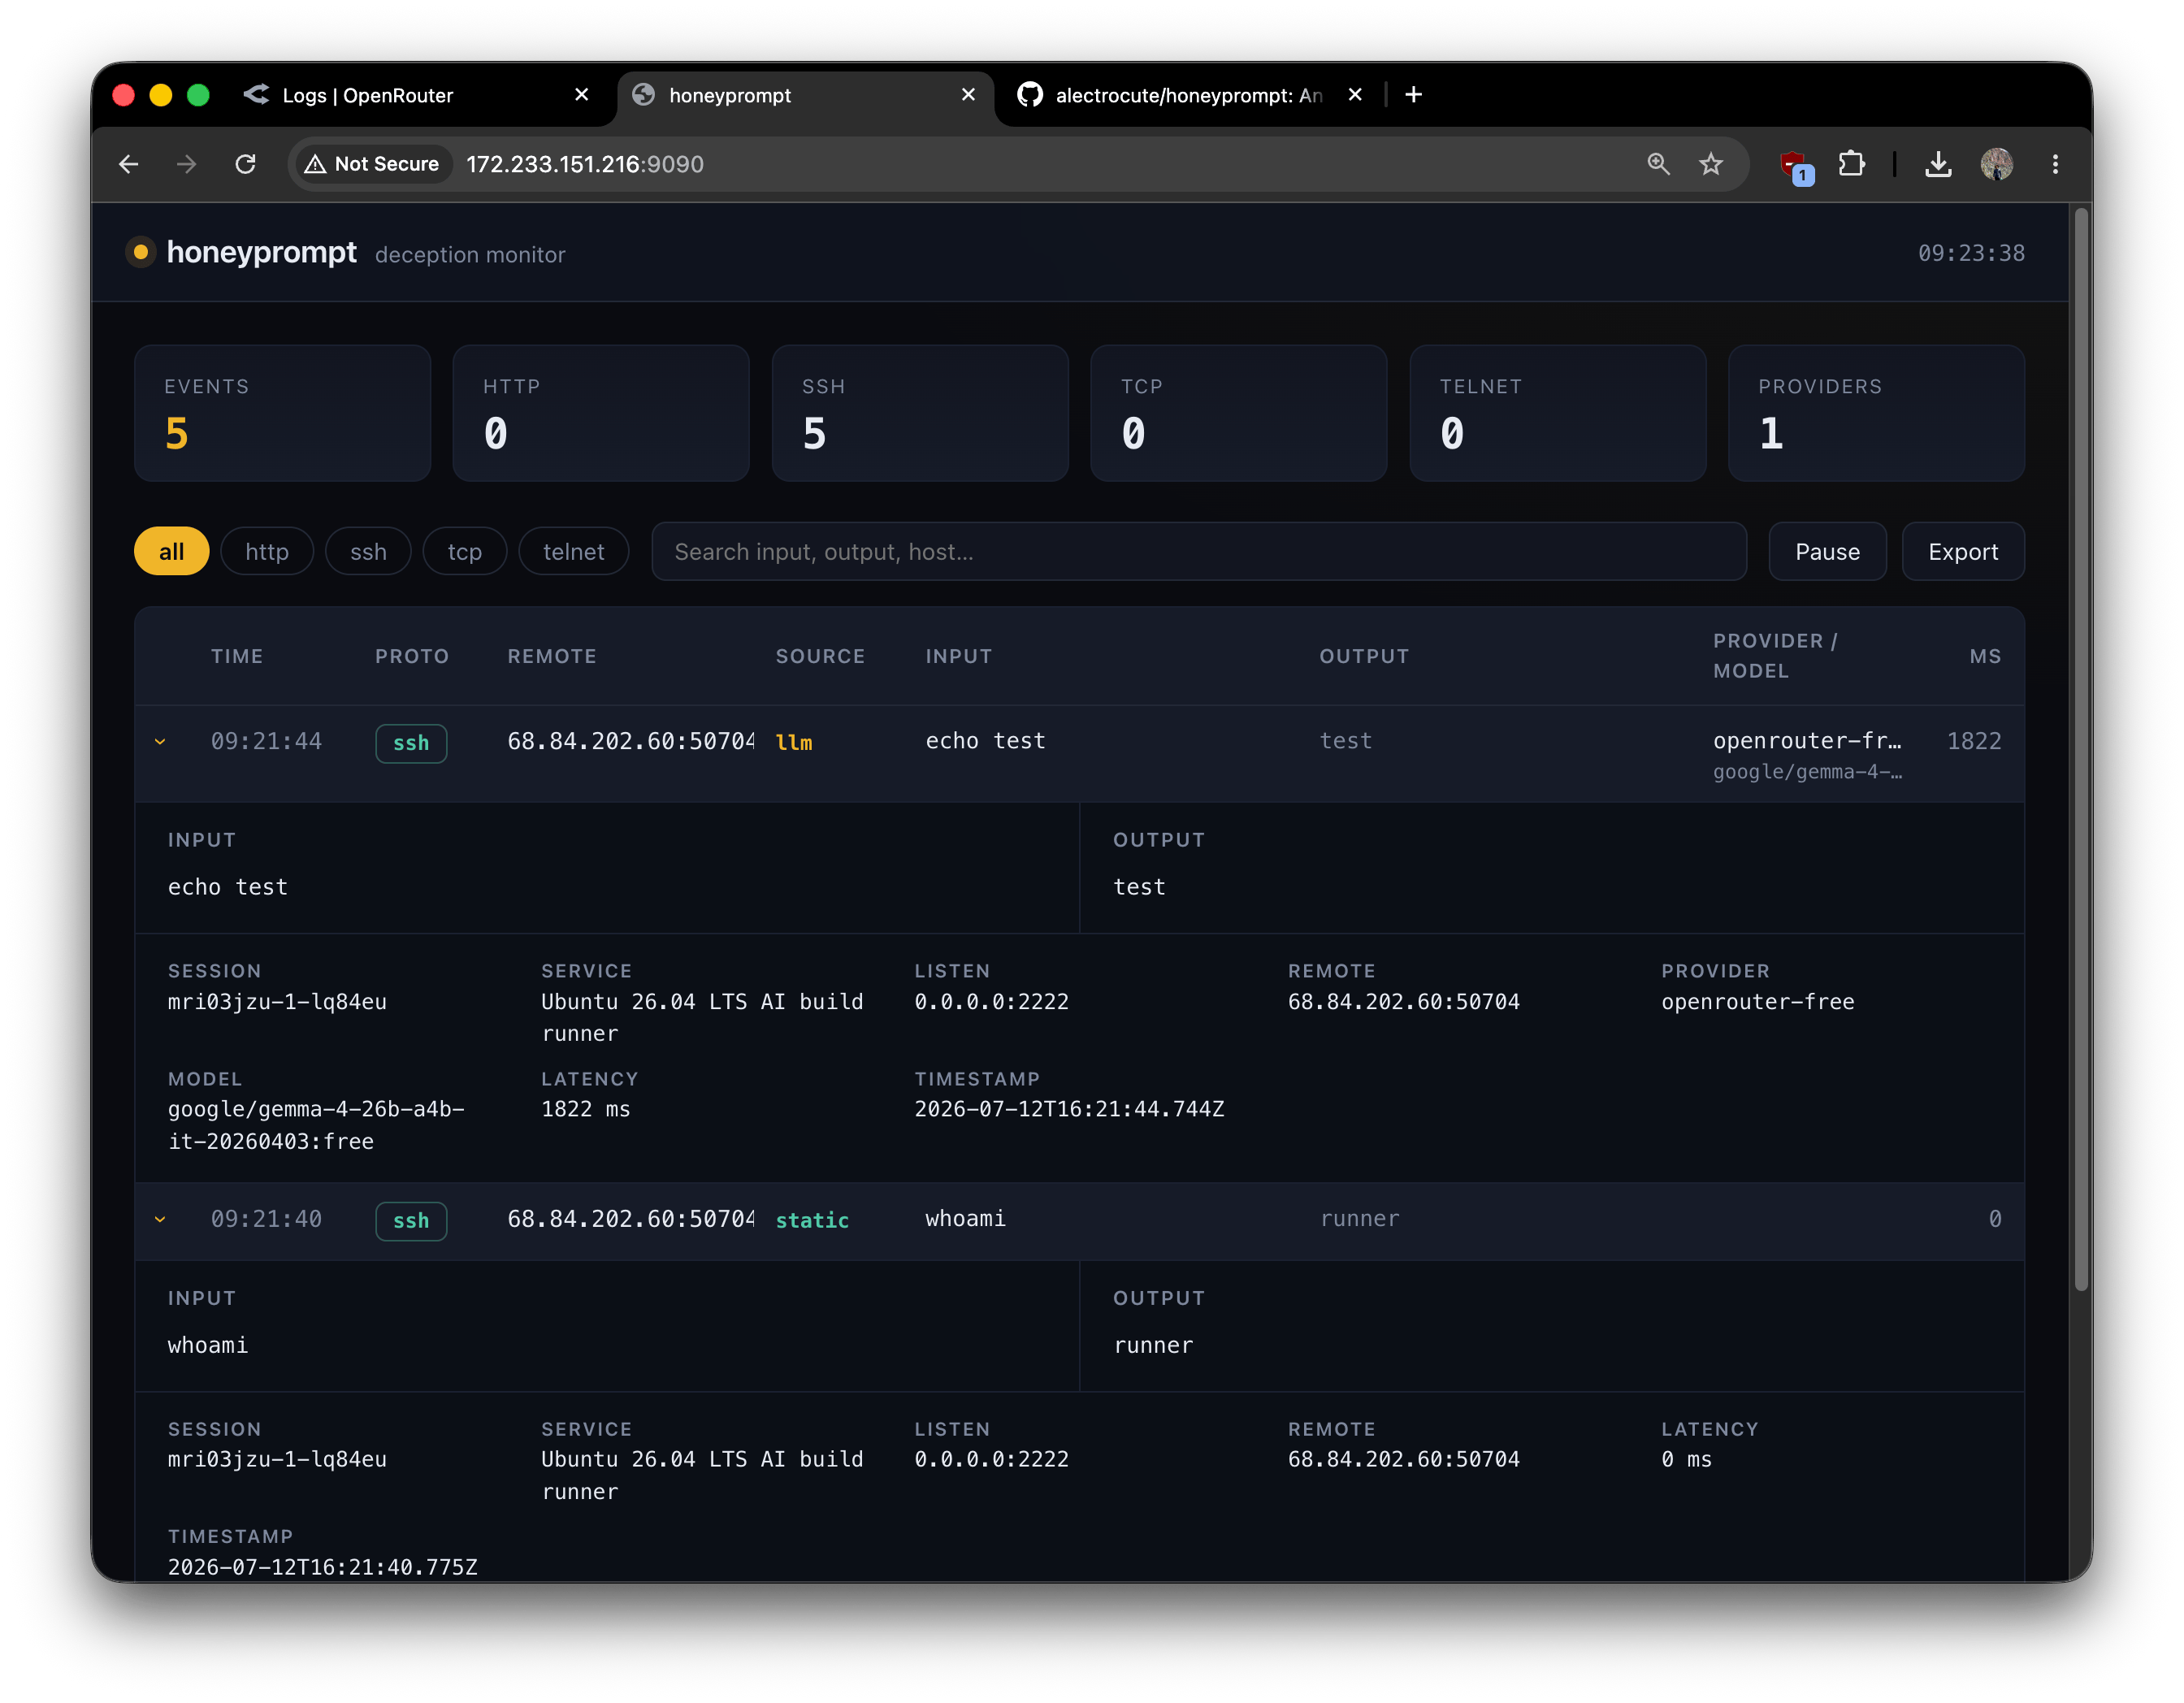
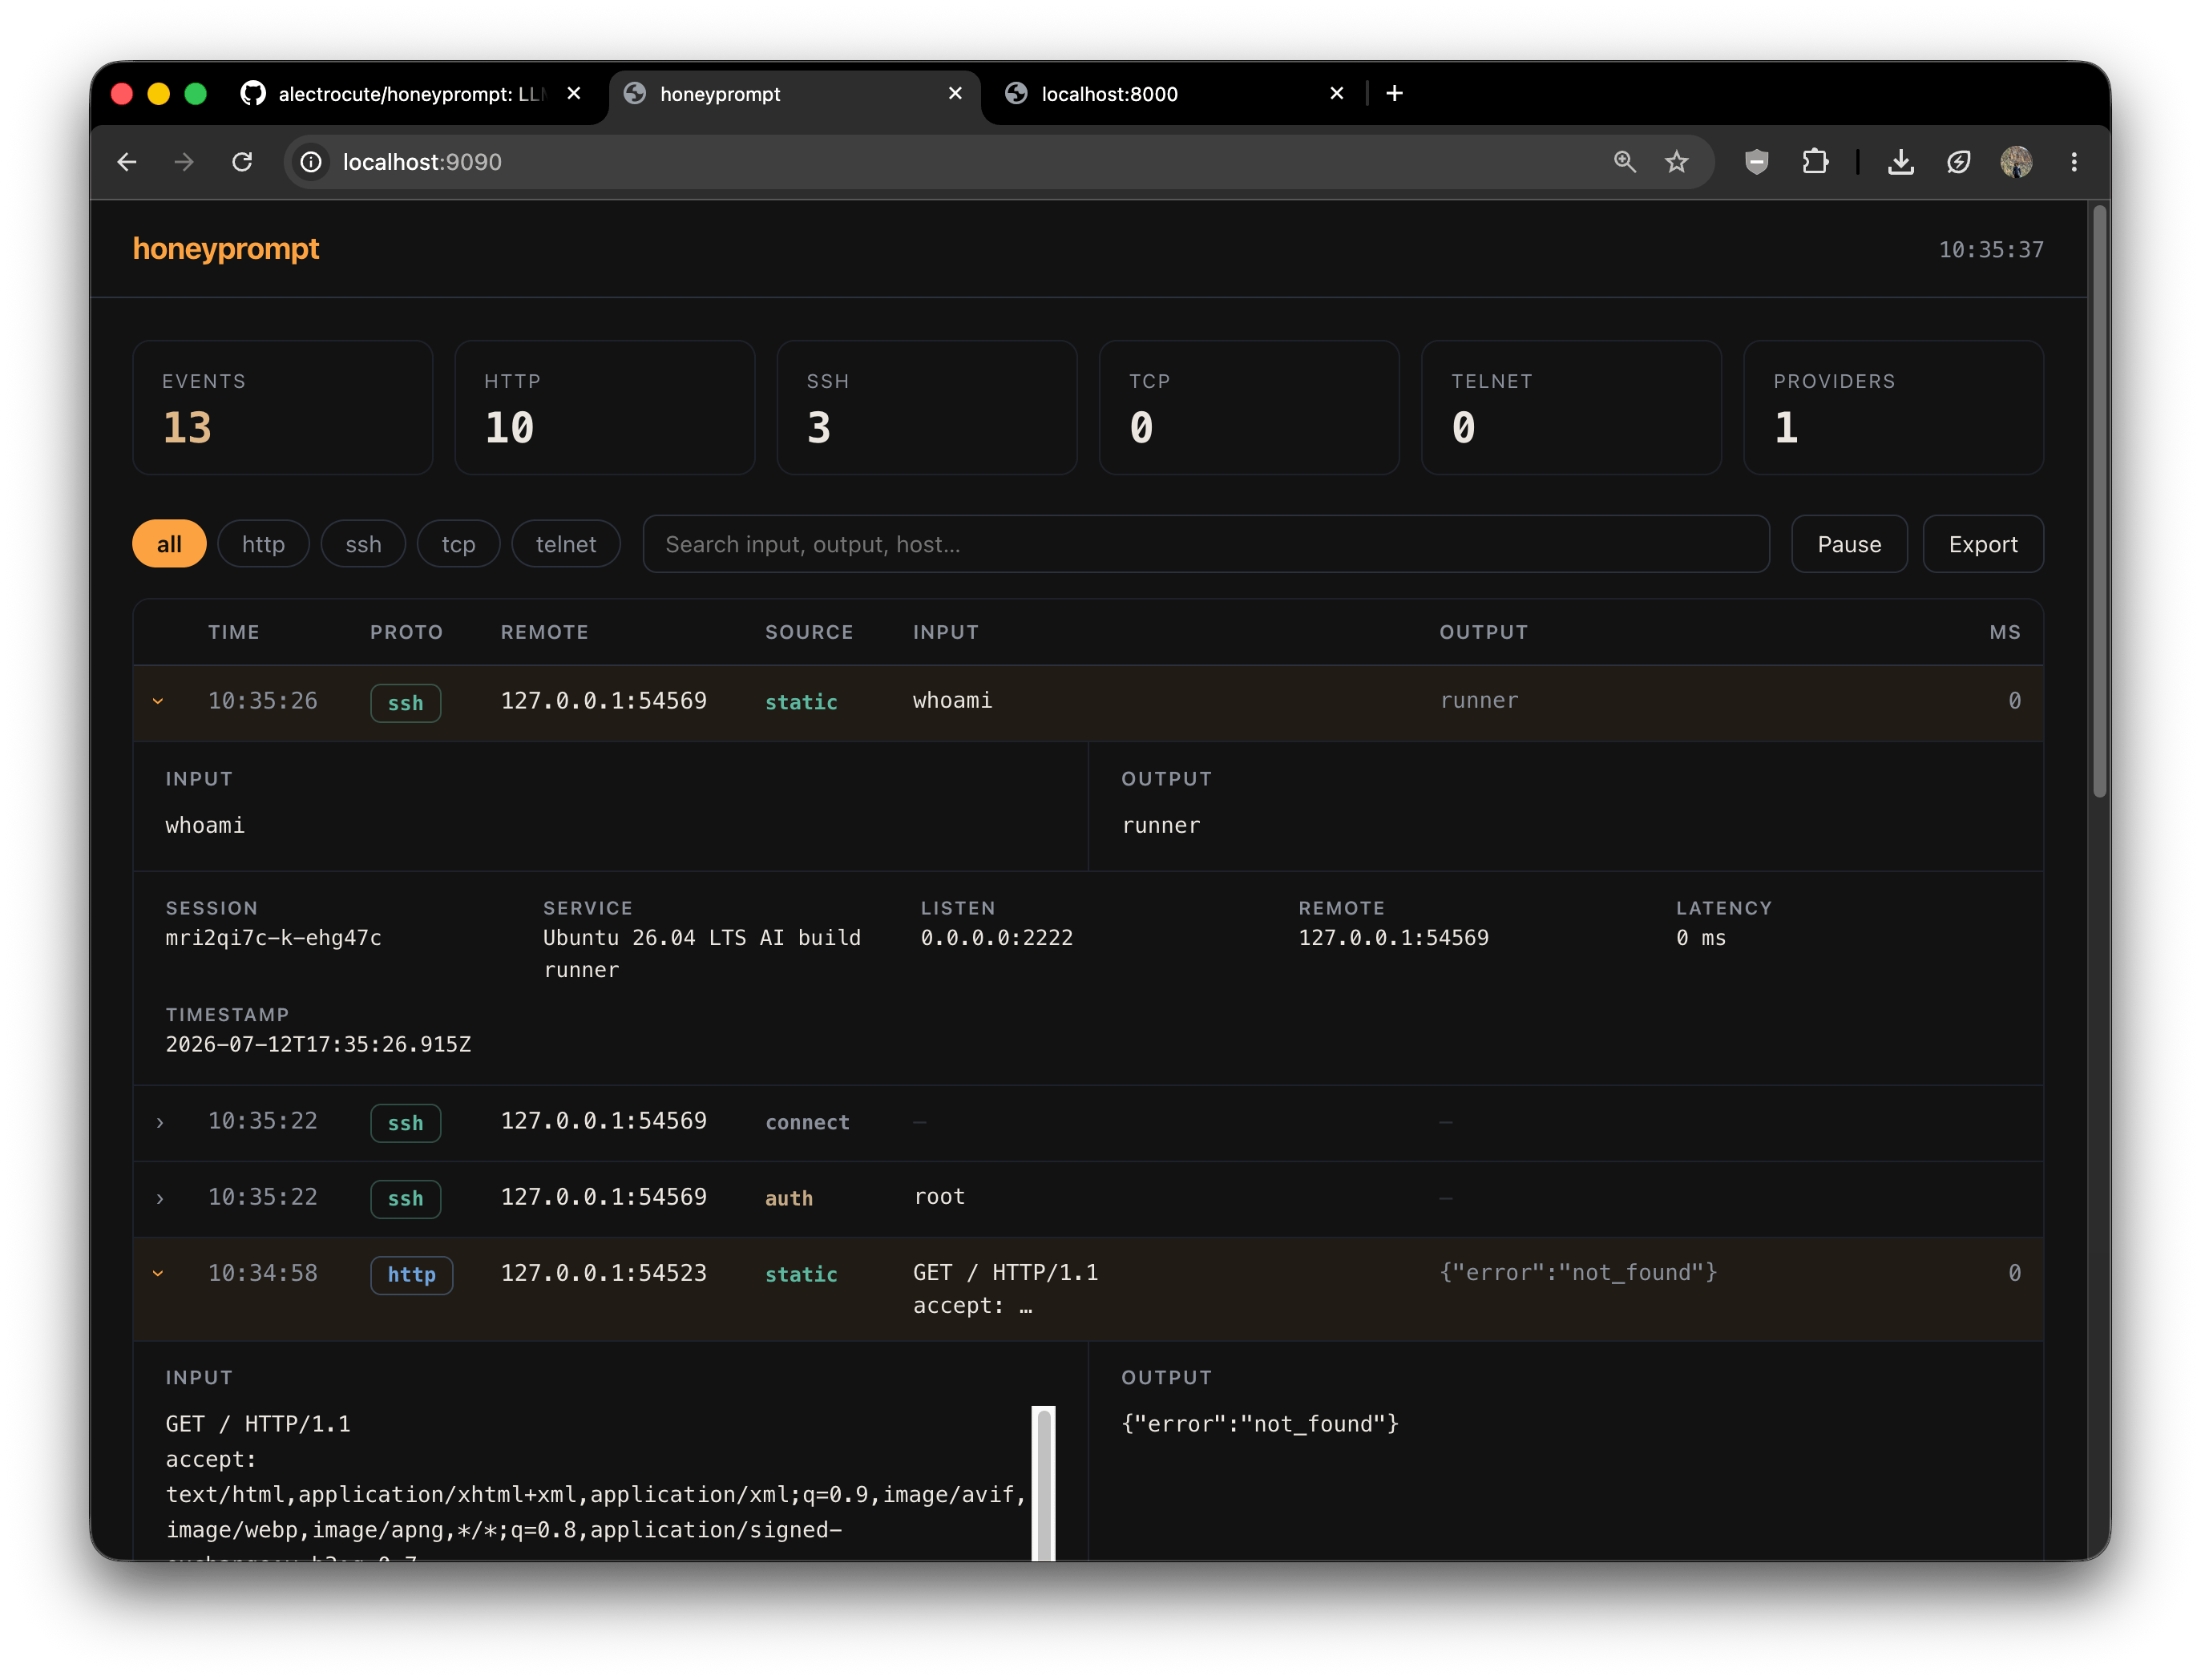
(feat): tweak web panel styling, release v.0.1.3

diff --git a/src/panel/assets/index.html b/src/panel/assets/index.html
@@ -1,69 +1,68 @@
 <!DOCTYPE html>
 <html lang="en">
-  <head>
-    <meta charset="utf-8" />
-    <meta name="viewport" content="width=device-width, initial-scale=1" />
-    <title>honeyprompt</title>
-    <link rel="stylesheet" href="panel.css" />
-  </head>
 
-  <body>
-    <header class="topbar">
-      <div class="brand">
-        <span class="pulse" title="live"></span>
-        <span class="wordmark">honeyprompt</span>
-        <span class="subtitle">deception monitor</span>
+<head>
+  <meta charset="utf-8" />
+  <meta name="viewport" content="width=device-width, initial-scale=1" />
+  <title>honeyprompt</title>
+  <link rel="stylesheet" href="panel.css" />
+</head>
+
+<body>
+  <header class="topbar">
+    <div class="brand">
+      <span class="wordmark">honeyprompt</span>
+    </div>
+    <div class="topbar-meta">
+      <span id="clock" class="clock"></span>
+    </div>
+  </header>
+
+  <main>
+    <section id="stats" class="stats"></section>
+
+    <div class="toolbar">
+      <div class="filters" id="protocols">
+        <button class="chip is-active" data-protocol="">all</button>
+        <button class="chip" data-protocol="http">http</button>
+        <button class="chip" data-protocol="ssh">ssh</button>
+        <button class="chip" data-protocol="tcp">tcp</button>
+        <button class="chip" data-protocol="telnet">telnet</button>
       </div>
-      <div class="topbar-meta">
-        <span id="clock" class="clock"></span>
+      <input id="search" class="search" type="search" placeholder="Search input, output, host…" />
+      <div class="toolbar-actions">
+        <button id="pause" class="btn">Pause</button>
+        <button id="export" class="btn">Export</button>
       </div>
-    </header>
+    </div>
 
-    <main>
-      <section id="stats" class="stats"></section>
-
-      <div class="toolbar">
-        <div class="filters" id="protocols">
-          <button class="chip is-active" data-protocol="">all</button>
-          <button class="chip" data-protocol="http">http</button>
-          <button class="chip" data-protocol="ssh">ssh</button>
-          <button class="chip" data-protocol="tcp">tcp</button>
-          <button class="chip" data-protocol="telnet">telnet</button>
-        </div>
-        <input id="search" class="search" type="search" placeholder="Search input, output, host…" />
-        <div class="toolbar-actions">
-          <button id="pause" class="btn">Pause</button>
-          <button id="export" class="btn">Export</button>
-        </div>
-      </div>
-
-      <div class="table-wrap">
-        <table>
-          <thead>
-            <tr>
-              <th class="col-caret" aria-label="expand"></th>
-              <th class="col-time">Time</th>
-              <th class="col-proto">Proto</th>
-              <th class="col-remote">Remote</th>
-              <th class="col-src">Source</th>
+    <div class="table-wrap">
+      <table>
+        <thead>
+          <tr>
+            <th class="col-caret" aria-label="expand"></th>
+            <th class="col-time">Time</th>
+            <th class="col-proto">Proto</th>
+            <th class="col-remote">Remote</th>
+            <th class="col-src">Source</th>
               <th class="col-io">Input</th>
               <th class="col-io">Output</th>
-              <th class="col-prov">Provider / Model</th>
               <th class="col-ms">ms</th>
-            </tr>
-          </thead>
-          <tbody id="rows"></tbody>
-        </table>
-        <p id="empty" class="empty">Waiting for the first knock…</p>
-      </div>
-    </main>
+          </tr>
+        </thead>
+        <tbody id="rows"></tbody>
+      </table>
+      <p id="empty" class="empty">Waiting for the first knock…</p>
+    </div>
+  </main>
 
-    <footer class="statusbar">
-      <span id="count" class="muted"></span>
-      <span class="spacer"></span>
-      <span id="conn" class="muted">connecting…</span>
-    </footer>
+  <footer class="statusbar">
+    <span id="count" class="muted"></span>
+    <span class="spacer"></span>
+    <span id="conn" class="muted">connecting…</span>
+  </footer>
 
-    <script src="panel.js"></script>
-  </body>
+  <script src="panel.js"></script>
+</body>
+
 </html>

diff --git a/src/panel/assets/panel.css b/src/panel/assets/panel.css
@@ -1,18 +1,22 @@
 :root {
-  --bg: #0a0c10;
-  --surface: #111520;
-  --surface-2: #161b28;
-  --border: #222836;
-  --border-soft: #1a2030;
-  --text: #e7ebf3;
-  --muted: #7d879c;
-  --honey: #f0b429;
-  --honey-dim: #b9861a;
-  --http: #5aa2f0;
-  --ssh: #4ec9a8;
-  --tcp: #e5b567;
-  --telnet: #b98cf0;
-  --red: #e06c75;
+  /* Warm amber on slate — honey brand without the pumpkin-orange punch. */
+  --honey: #fca241;
+  --honey-bright: #e0b888;
+  --honey-dim: #8f6b45;
+  --honey-cream: #f0e6d4;
+  --honey-glow: rgba(212, 165, 116, 0.22);
+  --bg: #121212;
+  --surface: #121212;
+  --surface-2: #121212;
+  --border: #2a303c;
+  --border-soft: #1c212b;
+  --text: #ebe6df;
+  --muted: #8b919c;
+  --http: #6ba3e0;
+  --ssh: #5cb8a0;
+  --tcp: #c4a882;
+  --telnet: #9a8fc0;
+  --red: #d47880;
 
   --mono: ui-monospace, "SF Mono", "JetBrains Mono", Menlo, Consolas, monospace;
   --sans: system-ui, -apple-system, "Segoe UI", Roboto, sans-serif;
@@ -33,9 +37,7 @@ body {
   display: flex;
   flex-direction: column;
   min-height: 100vh;
-  background:
-    radial-gradient(1200px 600px at 100% -10%, rgba(240, 180, 41, 0.05), transparent 60%),
-    var(--bg);
+  background: var(--bg);
   color: var(--text);
   font: 14px/1.55 var(--sans);
   -webkit-font-smoothing: antialiased;
@@ -62,14 +64,18 @@ body {
 }
 
 .wordmark {
-  font-weight: 650;
+  font-weight: 700;
   font-size: 17px;
-  letter-spacing: -0.01em;
+  letter-spacing: -0.02em;
+  color: var(--honey);
 }
 
 .subtitle {
   color: var(--muted);
-  font-size: 12.5px;
+  font-size: 11px;
+  font-weight: 500;
+  text-transform: uppercase;
+  letter-spacing: 0.12em;
 }
 
 .pulse {
@@ -78,21 +84,21 @@ body {
   height: 8px;
   border-radius: 50%;
   background: var(--honey);
-  box-shadow: 0 0 0 0 rgba(240, 180, 41, 0.5);
+  box-shadow: 0 0 0 0 var(--honey-glow);
   animation: pulse 2.4s infinite;
 }
 
 @keyframes pulse {
   0% {
-    box-shadow: 0 0 0 0 rgba(240, 180, 41, 0.45);
+    box-shadow: 0 0 0 0 var(--honey-glow);
   }
 
   70% {
-    box-shadow: 0 0 0 7px rgba(240, 180, 41, 0);
+    box-shadow: 0 0 0 7px rgba(212, 165, 116, 0);
   }
 
   100% {
-    box-shadow: 0 0 0 0 rgba(240, 180, 41, 0);
+    box-shadow: 0 0 0 0 rgba(212, 165, 116, 0);
   }
 }
 
@@ -139,7 +145,7 @@ main {
 }
 
 .tile.accent .value {
-  color: var(--honey);
+  color: var(--honey-bright);
 }
 
 /* ---- toolbar ---------------------------------------------------------- */
@@ -169,11 +175,11 @@ main {
 
 .chip:hover {
   color: var(--text);
-  border-color: var(--muted);
+  border-color: color-mix(in srgb, var(--honey) 45%, var(--border));
 }
 
 .chip.is-active {
-  color: var(--bg);
+  color: #14110c;
   background: var(--honey);
   border-color: var(--honey);
   font-weight: 600;
@@ -193,6 +199,7 @@ main {
 .search:focus {
   outline: none;
   border-color: var(--honey-dim);
+  box-shadow: 0 0 0 3px color-mix(in srgb, var(--honey) 18%, transparent);
 }
 
 .toolbar-actions {
@@ -208,12 +215,13 @@ main {
   padding: 8px 14px;
   font: 13px var(--sans);
   cursor: pointer;
-  transition: border-color 0.12s, background 0.12s;
+  transition: border-color 0.12s, background 0.12s, color 0.12s;
 }
 
 .btn:hover {
-  border-color: var(--muted);
+  border-color: color-mix(in srgb, var(--honey) 50%, var(--border));
   background: var(--surface-2);
+  color: var(--honey-cream);
 }
 
 /* ---- table ------------------------------------------------------------ */
@@ -262,10 +270,6 @@ thead th {
   width: 84px;
 }
 
-.col-prov {
-  width: 130px;
-}
-
 .col-ms {
   width: 56px;
   text-align: right;
@@ -286,11 +290,11 @@ tbody td {
 }
 
 .row:hover {
-  background: var(--surface-2);
+  background: color-mix(in srgb, var(--honey) 4%, var(--surface-2));
 }
 
 .row.is-open {
-  background: var(--surface-2);
+  background: color-mix(in srgb, var(--honey) 6%, var(--surface-2));
 }
 
 .caret {
@@ -319,24 +323,6 @@ tbody td {
   font-family: var(--mono);
 }
 
-/* provider + model, stacked in the Provider column */
-.prov-name {
-  font-size: 12.5px;
-  color: var(--text);
-  overflow: hidden;
-  text-overflow: ellipsis;
-  white-space: nowrap;
-}
-
-.prov-model {
-  font: 11px var(--mono);
-  color: var(--muted);
-  margin-top: 2px;
-  overflow: hidden;
-  text-overflow: ellipsis;
-  white-space: nowrap;
-}
-
 /* protocol + source badges */
 .badge {
   display: inline-block;
@@ -358,7 +344,8 @@ tbody td {
 
 .proto-tcp {
   color: var(--tcp);
-  border-color: color-mix(in srgb, var(--tcp) 35%, transparent);
+  border-color: color-mix(in srgb, var(--tcp) 40%, transparent);
+  background: color-mix(in srgb, var(--honey) 10%, transparent);
 }
 
 .proto-telnet {
@@ -371,7 +358,7 @@ tbody td {
 }
 
 .src-llm {
-  color: var(--honey);
+  color: var(--honey-bright);
 }
 
 .src-static {
@@ -421,7 +408,7 @@ tbody td {
 .detail td {
   padding: 0;
   border-bottom: 1px solid var(--border-soft);
-  background: #0c0f16;
+  background: var(--surface-2);
 }
 
 .detail-grid {
@@ -439,7 +426,7 @@ tbody td {
 }
 
 .pane {
-  background: #0c0f16;
+  background: var(--surface-2);
   padding: 14px 18px 16px;
   min-width: 0;
 }

diff --git a/src/panel/assets/panel.js b/src/panel/assets/panel.js
@@ -2,7 +2,7 @@
 "use strict";
 
 const MAX_EVENTS = 1000;
-const PREVIEW_COLUMNS = 9; // keep in sync with the table header
+const PREVIEW_COLUMNS = 8; // keep in sync with the table header
 
 const el = {
   stats: document.getElementById("stats"),
@@ -70,7 +70,6 @@ function renderRow(e) {
       <td><span class="src src-${e.source}">${e.source}</span></td>
       <td>${ioCell(e.input, "in")}</td>
       <td>${ioCell(e.output, "")}</td>
-      <td>${providerCell(e)}</td>
       <td class="ms">${e.latencyMs ?? ""}</td>
     </tr>`;
   return open ? preview + renderDetail(e) : preview;
@@ -79,14 +78,6 @@ function renderRow(e) {
 function ioCell(value, extra) {
   if (!value) return `<span class="io-empty">—</span>`;
   return `<div class="io ${extra}">${escapeHtml(value)}</div>`;
-}
-
-function providerCell(e) {
-  if (!e.provider) return "";
-  const model = e.model
-    ? `<div class="prov-model" title="${escapeHtml(e.model)}">${escapeHtml(e.model)}</div>`
-    : "";
-  return `<div class="prov-name mono">${escapeHtml(e.provider)}</div>${model}`;
 }
 
 function metaItem(key, value) {

diff --git a/src/meta.ts b/src/meta.ts
@@ -1,4 +1,4 @@
 /** Project-wide identity constants. */
 export const NAME = "honeyprompt";
-export const VERSION = "0.1.2";
+export const VERSION = "0.1.3";
 export const REPO_URL = "https://github.com/alectrocute/honeyprompt";